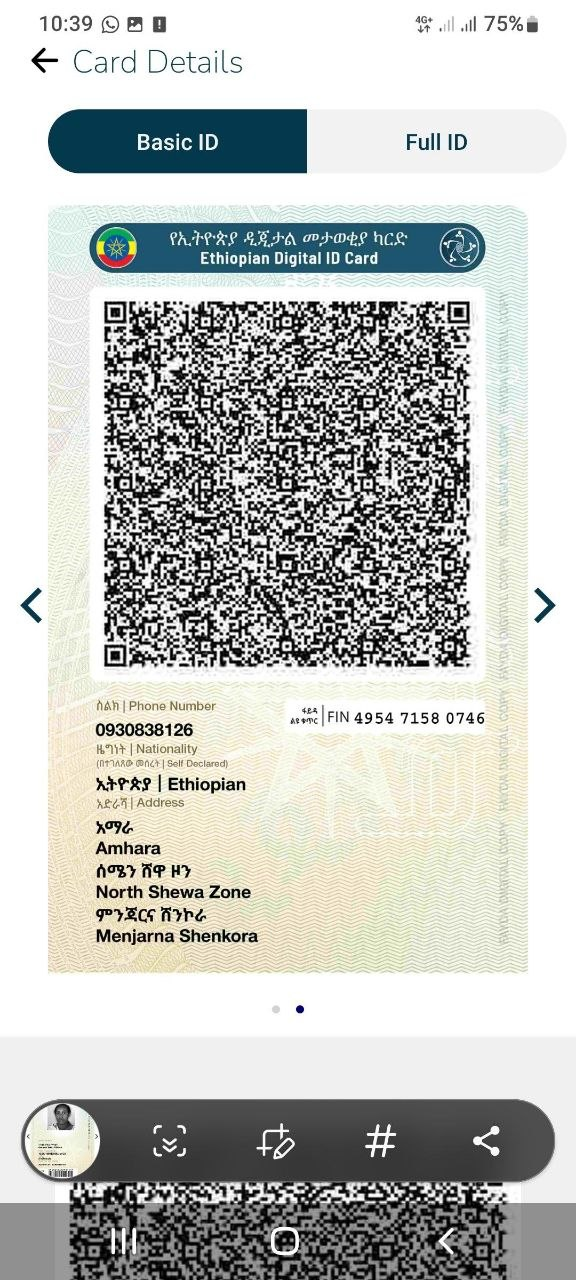
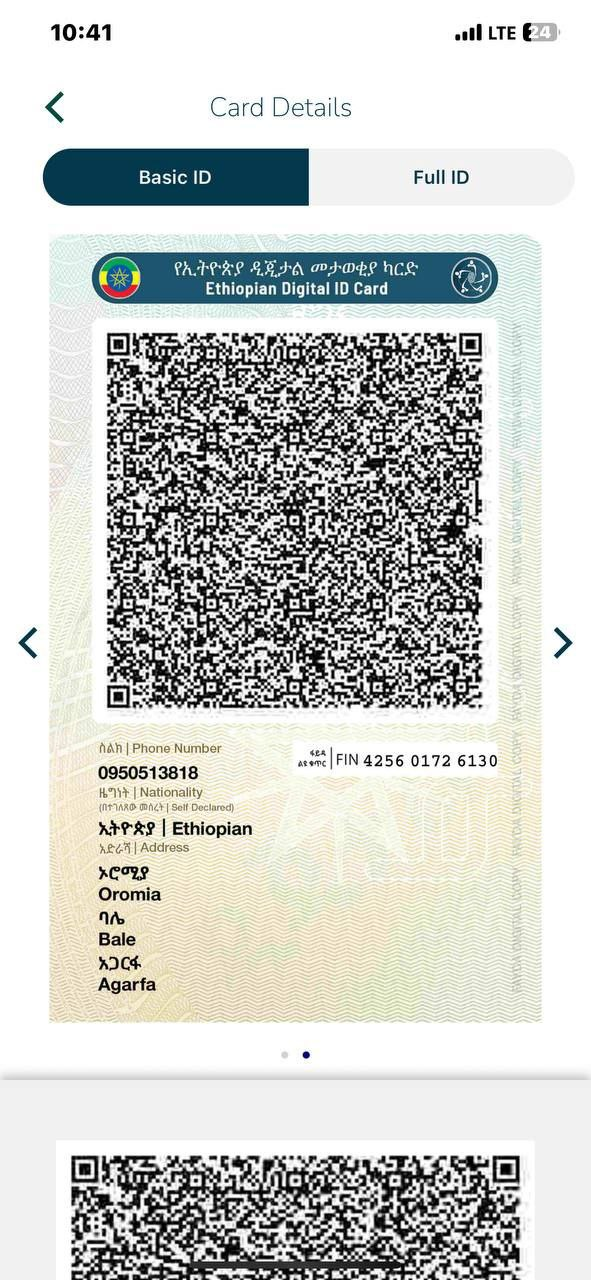
feat: Enhance Amharic address transliteration with new mappings and refined logic, update example ID data, and manage image assets.

diff --git a/final_id_result.html b/final_id_result.html
@@ -747,17 +747,17 @@
           <div class="field" style="margin-bottom:8px;">
             <span class="label">ሙሉ ስም | Full Name</span>
             <div class="val-am">
-              ሀፊዛ አብዱልሀሚድ ኡስማን
+              ገንዘብ ተክሉ ጥላሁን
             </div>
             <div class="val-en">
-              Hafiza Abdulhamid Usman
+              Genzeb Teklu Tilahun
             </div>
           </div>
           <div class="field">
             <span class="label">የትውልድ ቀን | Date of Birth</span>
             <div class="val-inline">
               
-              15/05/1998 | 2007/05/15
+              05/06/1971 | 2006/01/23
               
             </div>
           </div>
@@ -799,7 +799,7 @@
           <div class="left-side">
             <div class="field">
               <span class="label">ስልክ | Phone Number</span>
-              <div class="val-inline">0930838126</div>
+              <div class="val-inline">0950513818</div>
             </div>
             <div class="field">
               <span class="label">ዜግነት | Nationality<br>
@@ -811,14 +811,14 @@
             <div class="field">
               <span class="label">አድራሻ | Address</span>
               <div class="val-inline">
-                አማራ<br>Amhara<br>
-                ሰሜን ሸዋ<br>North Shewa<br>
-                ምንጃርና ሸንኮራ<br>Menjarna Shenkora
+                ኦሮሚያ<br>Oromia<br>
+                ባሌ<br>Bale<br>
+                አጋርፋ<br>Agarfa
               </div>
             </div>
             <div class="field">
               <span class="label">የመታወቂያ ቁጥር | FIN Number</span>
-              <div class="val-inline">0930838126</div>
+              <div class="val-inline">—</div>
             </div>
             <br>
             <span style="display:inline-block;overflow:hidden;line-height:0;margin-top:-10px;">

diff --git a/main.py b/main.py
@@ -143,7 +143,10 @@ def transliterate_to_amharic(text):
         "USMAN": "ኡስማን", "MOHAMMED": "መሐመድ", "AHMED": "አህመድ", "ABEB": "አበባ", 
         "GENZEB": "ገንዘብ", "TEKLU": "ተክሉ", "TILAHUN": "ጥላሁን",
         "KEBEDE": "ከበደ", "TESFAYE": "ተስፋዬ", "ALEMU": "አለሙ", "BEKELE": "በቀለ",
-        "ZELEKE": "ዘለቀ", "GIRMA": "ግርማ", "HAILU": "ኃይሉ", "ASSAFA": "አሰፋ"
+        "ZELEKE": "ዘለቀ", "GIRMA": "ግርማ", "HAILU": "ኃይሉ", "ASSAFA": "አሰፋ",
+        "AMHARA": "አማራ", "OROMIA": "ኦሮሚያ", "SIDAMA": "ሲዳማ", "SOMALI": "ሶማሌ",
+        "TIGRAY": "ትግራይ", "AFAR": "አፋር", "GAMBELA": "ጋምቤላ", "HARARI": "ሐረሪ",
+        "ADDIS ABABA": "አዲስ አበባ", "DIRE DAWA": "ድሬዳዋ", "SHEWA": "ሸዋ"
     }
     
     for eng, amh in special_mappings.items():
@@ -808,13 +811,26 @@ def extract_back(image):
     if not en_parts_map["zone"] and en_list: en_parts_map["zone"] = en_list.pop(0)
     if not en_parts_map["woreda"] and en_list: en_parts_map["woreda"] = en_list.pop(0)
 
-    data["reg_am"] = am_parts_map["reg"] or "—"
-    data["zone_am"] = am_parts_map["zone"] or "—"
-    data["woreda_am"] = am_parts_map["woreda"] or "—"
-
     data["reg_en"] = en_parts_map["reg"] or "—"
     data["zone_en"] = en_parts_map["zone"] or "—"
     data["woreda_en"] = en_parts_map["woreda"] or "—"
+
+    # 3. Final Address Transliteration (Syncing)
+    # If English exists, we transliterate to Amharic for consistency and to fix OCR noise
+    if data["reg_en"] != "—":
+        data["reg_am"] = transliterate_to_amharic(data["reg_en"])
+    elif data["reg_am"] == "—":
+        data["reg_am"] = "—"
+
+    if data["zone_en"] != "—":
+        data["zone_am"] = transliterate_to_amharic(data["zone_en"])
+    elif data["zone_am"] == "—":
+        data["zone_am"] = "—"
+
+    if data["woreda_en"] != "—":
+        data["woreda_am"] = transliterate_to_amharic(data["woreda_en"])
+    elif data["woreda_am"] == "—":
+        data["woreda_am"] = "—"
 
     return data
 
